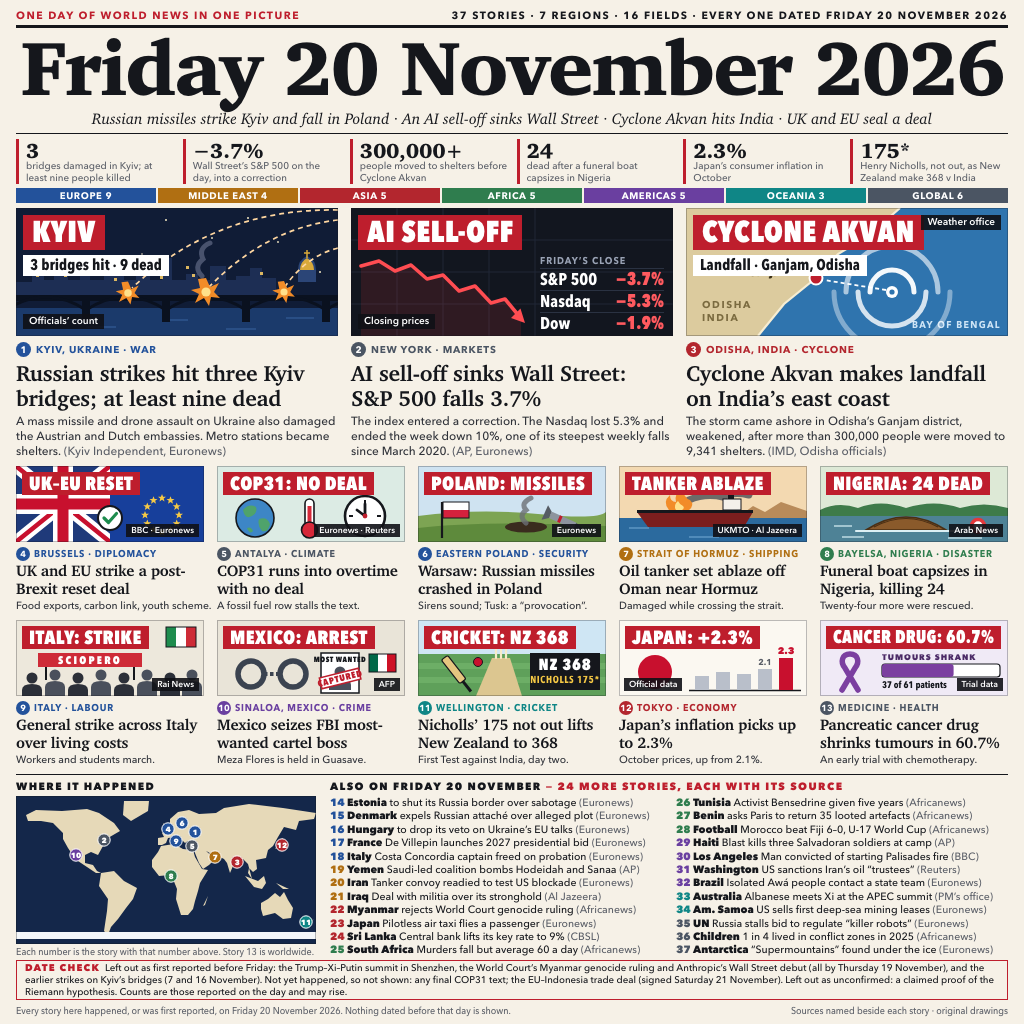
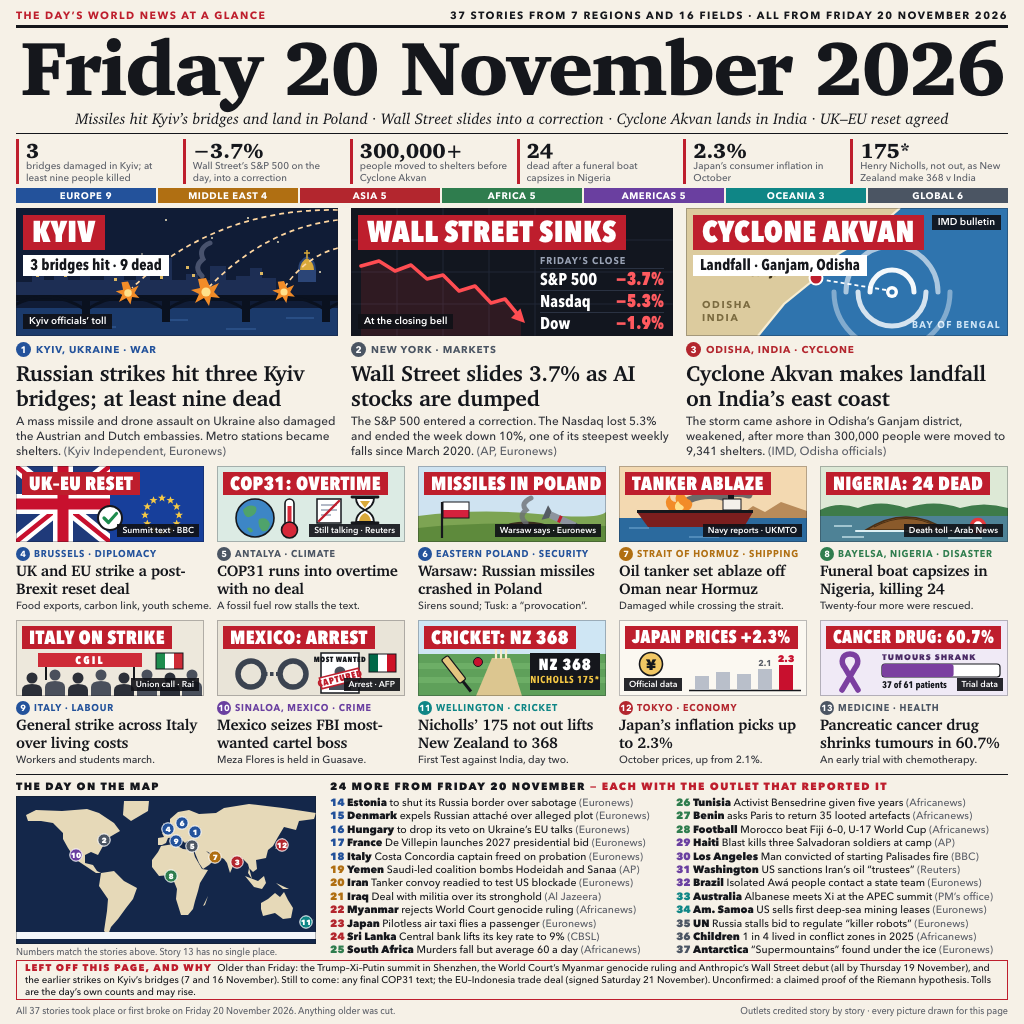
Reword every label in the page's own terms, redraw the COP31 and Japan pictures, tag each source with its kind of evidence

diff --git a/poster.html b/poster.html
@@ -94,10 +94,10 @@ h1{top:27px;height:80px;font:900 77px/80px var(--serif);letter-spacing:-2.2px;te
 <body>
 <div class="page">
 
-  <div class="abs kick"><span class="l">One day of world news in one picture</span><span>37 stories · 7 regions · 16 fields · every one dated Friday 20 November 2026</span></div>
+  <div class="abs kick"><span class="l">The day’s world news at a glance</span><span>37 stories from 7 regions and 16 fields · all from Friday 20 November 2026</span></div>
   <div class="abs bar" style="top:25px;height:3px"></div>
   <h1 class="abs">Friday 20 November 2026</h1>
-  <div class="abs deck">Russian missiles strike Kyiv and fall in Poland · An AI sell-off sinks Wall Street · Cyclone Akvan hits India · UK and EU seal a deal</div>
+  <div class="abs deck">Missiles hit Kyiv’s bridges and land in Poland · Wall Street slides into a correction · Cyclone Akvan lands in India · UK–EU reset agreed</div>
   <div class="abs bar" style="top:133px;height:1px"></div>
 
   <div class="abs nums">
@@ -136,7 +136,7 @@ h1{top:27px;height:80px;font:900 77px/80px var(--serif);letter-spacing:-2.2px;te
       </svg>
       <div class="chip">Kyiv</div>
       <div class="sub">3 bridges hit · 9 dead</div>
-      <div class="src">Officials’ count</div>
+      <div class="src">Kyiv officials’ toll</div>
     </div>
     <div class="tag c-eu"><b class="n eu">1</b>Kyiv, Ukraine · War</div>
     <h2>Russian strikes hit three Kyiv bridges; at least nine dead</h2>
@@ -153,13 +153,13 @@ h1{top:27px;height:80px;font:900 77px/80px var(--serif);letter-spacing:-2.2px;te
         <polyline points="10,58 28,53 44,63 60,57 76,71 92,67 108,83 124,78 140,95 154,91 168,108" fill="none" stroke="#FF4D52" stroke-width="3.6" stroke-linejoin="round" stroke-linecap="round"/>
         <polygon points="174,115 160,110 169.500,100.500" fill="#FF4D52"/>
       </svg>
-      <div class="chip">AI sell-off</div>
+      <div class="chip">Wall Street sinks</div>
       <div class="mk"><em>Friday’s close</em><div>S&amp;P 500<b>−3.7%</b></div><div>Nasdaq<b>−5.3%</b></div><div>Dow<b>−1.9%</b></div></div>
-      <div class="src">Closing prices</div>
+      <div class="src">At the closing bell</div>
     </div>
     <div class="tag c-gl"><b class="n gl">2</b>New York · Markets</div>
-    <h2>AI sell-off sinks Wall Street: S&amp;P 500 falls 3.7%</h2>
-    <p>The index entered a correction. The Nasdaq lost 5.3% and ended the week down 10%, one of its steepest weekly falls since March 2020. <i>(AP, Euronews)</i></p>
+    <h2>Wall Street slides 3.7% as AI stocks are dumped</h2>
+    <p>The S&amp;P 500 entered a correction. The Nasdaq lost 5.3% and ended the week down 10%, one of its steepest weekly falls since March 2020. <i>(AP, Euronews)</i></p>
   </div>
 
   <!-- 3 · Cyclone Akvan -->
@@ -185,7 +185,7 @@ h1{top:27px;height:80px;font:900 77px/80px var(--serif);letter-spacing:-2.2px;te
       </svg>
       <div class="chip">Cyclone Akvan</div>
       <div class="sub">Landfall · Ganjam, Odisha</div>
-      <div class="src" style="left:auto;right:7px;bottom:auto;top:7px">Weather office</div>
+      <div class="src" style="left:auto;right:7px;bottom:auto;top:7px">IMD bulletin</div>
     </div>
     <div class="tag c-as"><b class="n as">3</b>Odisha, India · Cyclone</div>
     <h2>Cyclone Akvan makes landfall on India’s east coast</h2>
@@ -205,7 +205,7 @@ h1{top:27px;height:80px;font:900 77px/80px var(--serif);letter-spacing:-2.2px;te
         <path d="M88 52l4.500 4.500l8-9" fill="none" stroke="#1E8C4E" stroke-width="3.2" stroke-linecap="round" stroke-linejoin="round"/>
       </svg>
       <div class="chip">UK–EU reset</div>
-      <div class="src">BBC · Euronews</div>
+      <div class="src">Summit text · BBC</div>
     </div>
     <div class="tag c-eu"><b class="n eu">4</b>Brussels · Diplomacy</div>
     <h2>UK and EU strike a post-Brexit reset deal</h2>
@@ -219,16 +219,19 @@ h1{top:27px;height:80px;font:900 77px/80px var(--serif);letter-spacing:-2.2px;te
         <circle cx="38" cy="52" r="19" fill="#3D86C6"/>
         <path d="M26 44q6-7 13-3q2 6-4 9q-7 4-9-6zM42 53q8-3 11 5q-2 9-8 7q-5-6-3-12zM30 62q4-2 6 3q-3 4-6-3z" fill="#4FA36B"/>
         <circle cx="38" cy="52" r="19" fill="none" stroke="#15171C" stroke-width="1.6"/>
-        <rect x="88" y="33" width="9" height="28" rx="4.500" fill="#fff" stroke="#15171C" stroke-width="1.6"/>
-        <rect x="90.500" y="40" width="4" height="22" fill="#D62839"/>
-        <circle cx="92.500" cy="64" r="8" fill="#D62839" stroke="#15171C" stroke-width="1.6"/>
-        <circle cx="148" cy="50" r="20" fill="#fff" stroke="#15171C" stroke-width="2.6"/>
-        <path d="M148 34v4M148 62v4M132 50h4M160 50h4" stroke="#15171C" stroke-width="2"/>
-        <path d="M148 50V38M148 50L140 44" stroke="#15171C" stroke-width="2.8" stroke-linecap="round"/>
-        <circle cx="148" cy="50" r="2.4" fill="#BE1E2D"/>
+        <rect x="68" y="33" width="9" height="28" rx="4.500" fill="#fff" stroke="#15171C" stroke-width="1.6"/>
+        <rect x="70.500" y="40" width="4" height="22" fill="#D62839"/>
+        <circle cx="72.500" cy="64" r="8" fill="#D62839" stroke="#15171C" stroke-width="1.6"/>
+        <path d="M135 31h26M135 57h26" stroke="#15171C" stroke-width="2.8" stroke-linecap="round"/>
+        <path d="M139 32q0 8 9 12q-9 4-9 12h18q0-8-9-12q9-4 9-12z" fill="#fff" stroke="#15171C" stroke-width="1.8"/>
+        <path d="M143 35h10l-5 7z" fill="#D9A93A"/>
+        <path d="M142 55q1-6 6-8q5 2 6 8z" fill="#D9A93A"/>
+        <rect x="100" y="33" width="24" height="24" fill="#fff" stroke="#15171C" stroke-width="1.5"/>
+        <path d="M104 39h16M104 44h16M104 49h10" stroke="#9AA3B5" stroke-width="1.6"/>
+        <path d="M102 55l20-20" stroke="#BE1E2D" stroke-width="2.4" stroke-linecap="round"/>
       </svg>
-      <div class="chip">COP31: no deal</div>
-      <div class="src">Euronews · Reuters</div>
+      <div class="chip">COP31: overtime</div>
+      <div class="src">Still talking · Reuters</div>
     </div>
     <div class="tag c-gl"><b class="n gl">5</b>Antalya · Climate</div>
     <h2>COP31 runs into overtime with no deal</h2>
@@ -247,8 +250,8 @@ h1{top:27px;height:80px;font:900 77px/80px var(--serif);letter-spacing:-2.2px;te
         <path d="M24 36V72" stroke="#15171C" stroke-width="2.2"/>
         <rect x="25" y="36" width="26" height="8" fill="#fff"/><rect x="25" y="44" width="26" height="8" fill="#D4213D"/><rect x="25" y="36" width="26" height="16" fill="none" stroke="#15171C" stroke-width="1"/>
       </svg>
-      <div class="chip">Poland: missiles</div>
-      <div class="src">Euronews</div>
+      <div class="chip">Missiles in Poland</div>
+      <div class="src">Warsaw says · Euronews</div>
     </div>
     <div class="tag c-eu"><b class="n eu">6</b>Eastern Poland · Security</div>
     <h2>Warsaw: Russian missiles crashed in Poland</h2>
@@ -271,7 +274,7 @@ h1{top:27px;height:80px;font:900 77px/80px var(--serif);letter-spacing:-2.2px;te
         <path d="M57 44q-3-5 2-9q2 4 5 5q2 2-1 4z" fill="#FFE08A"/>
       </svg>
       <div class="chip">Tanker ablaze</div>
-      <div class="src">UKMTO · Al Jazeera</div>
+      <div class="src">Navy reports · UKMTO</div>
     </div>
     <div class="tag c-me"><b class="n me">7</b>Strait of Hormuz · Shipping</div>
     <h2>Oil tanker set ablaze off Oman near Hormuz</h2>
@@ -305,15 +308,15 @@ h1{top:27px;height:80px;font:900 77px/80px var(--serif);letter-spacing:-2.2px;te
     <div class="pic">
       <svg viewBox="0 0 188 76">
         <rect width="188" height="76" fill="#EDE8DC"/>
-        <rect x="150" y="7" width="10" height="20" fill="#1E8C4E"/><rect x="160" y="7" width="10" height="20" fill="#fff"/><rect x="170" y="7" width="10" height="20" fill="#CE2B37"/><rect x="150" y="7" width="30" height="20" fill="none" stroke="#15171C" stroke-width="1"/>
+        <rect x="140" y="33" width="9" height="16" fill="#1E8C4E"/><rect x="149" y="33" width="9" height="16" fill="#fff"/><rect x="158" y="33" width="9" height="16" fill="#CE2B37"/><rect x="140" y="33" width="27" height="16" fill="none" stroke="#15171C" stroke-width="1"/>
         <path d="M30 60V40M118 60V40" stroke="#15171C" stroke-width="2"/>
         <rect x="22" y="33" width="104" height="14" fill="#CE2B37"/>
-        <text x="74" y="43.500" text-anchor="middle" font-family="Avenir Next Condensed,Arial Narrow,Arial" font-weight="800" font-size="11" letter-spacing="2.2" fill="#fff">SCIOPERO</text>
+        <text x="74" y="43.500" text-anchor="middle" font-family="Avenir Next Condensed,Arial Narrow,Arial" font-weight="800" font-size="11" letter-spacing="2.2" fill="#fff">CGIL</text>
         <g fill="#2B2F38"><circle cx="16" cy="58" r="5.500"/><path d="M6 76v-6q0-6 10-6t10 6v6z"/><circle cx="62" cy="58" r="5.500"/><path d="M52 76v-6q0-6 10-6t10 6v6z"/><circle cx="108" cy="58" r="5.500"/><path d="M98 76v-6q0-6 10-6t10 6v6z"/><circle cx="154" cy="58" r="5.500"/><path d="M144 76v-6q0-6 10-6t10 6v6z"/></g>
         <g fill="#4A505C"><circle cx="39" cy="55" r="5.500"/><path d="M29 76v-9q0-6 10-6t10 6v9z"/><circle cx="85" cy="55" r="5.500"/><path d="M75 76v-9q0-6 10-6t10 6v9z"/><circle cx="131" cy="55" r="5.500"/><path d="M121 76v-9q0-6 10-6t10 6v9z"/><circle cx="176" cy="55" r="5.500"/><path d="M166 76v-9q0-6 10-6t10 6v9z"/></g>
       </svg>
-      <div class="chip">Italy: strike</div>
-      <div class="src">Rai News</div>
+      <div class="chip">Italy on strike</div>
+      <div class="src">Union call · Rai</div>
     </div>
     <div class="tag c-eu"><b class="n eu">9</b>Italy · Labour</div>
     <h2>General strike across Italy over living costs</h2>
@@ -334,7 +337,7 @@ h1{top:27px;height:80px;font:900 77px/80px var(--serif);letter-spacing:-2.2px;te
         <g transform="rotate(-14 123 58)"><rect x="103" y="53" width="40" height="11" fill="#fff" stroke="#BE1E2D" stroke-width="1.6"/><text x="123" y="61.500" text-anchor="middle" font-family="Avenir Next Condensed,Arial Narrow,Arial" font-weight="900" font-size="9" letter-spacing=".8" fill="#BE1E2D">CAPTURED</text></g>
       </svg>
       <div class="chip">Mexico: arrest</div>
-      <div class="src">AFP</div>
+      <div class="src">Arrest · AFP</div>
     </div>
     <div class="tag c-am"><b class="n am">10</b>Sinaloa, Mexico · Crime</div>
     <h2>Mexico seizes FBI most-wanted cartel boss</h2>
@@ -354,7 +357,7 @@ h1{top:27px;height:80px;font:900 77px/80px var(--serif);letter-spacing:-2.2px;te
         <circle cx="158" cy="60" r="6.500" fill="#fff" stroke="#E5383B" stroke-width="3.600"/>
       </svg>
       <div class="chip">Nigeria: 24 dead</div>
-      <div class="src">Arab News</div>
+      <div class="src">Death toll · Arab News</div>
     </div>
     <div class="tag c-af"><b class="n af">8</b>Bayelsa, Nigeria · Disaster</div>
     <h2>Funeral boat capsizes in Nigeria, killing 24</h2>
@@ -365,14 +368,15 @@ h1{top:27px;height:80px;font:900 77px/80px var(--serif);letter-spacing:-2.2px;te
     <div class="pic">
       <svg viewBox="0 0 188 76">
         <rect width="188" height="76" fill="#FBF8F1"/>
-        <circle cx="36" cy="52" r="17" fill="#C8102E"/>
+        <circle cx="32" cy="44" r="11.500" fill="#F2C864" stroke="#15171C" stroke-width="1.6"/>
+        <text x="32" y="49.500" text-anchor="middle" font-family="Avenir Next,Helvetica Neue,Arial" font-weight="800" font-size="15" fill="#15171C">¥</text>
         <path d="M70 70.500h112" stroke="#15171C" stroke-width="1.4"/>
         <g fill="#B9BFCA"><rect x="76" y="56" width="14" height="14"/><rect x="97" y="52" width="14" height="18"/><rect x="118" y="54" width="14" height="16"/><rect x="139" y="49" width="14" height="21"/></g>
-        <rect x="160" y="38" width="14" height="32" fill="#C8102E"/>
-        <text x="146" y="45" text-anchor="middle" font-family="Avenir Next,Helvetica Neue,Arial" font-weight="700" font-size="8.500" fill="#5A5E67">2.1</text>
-        <text x="167" y="34" text-anchor="middle" font-family="Avenir Next,Helvetica Neue,Arial" font-weight="800" font-size="9.500" fill="#C8102E">2.3</text>
+        <rect x="160" y="45" width="14" height="25" fill="#C8102E"/>
+        <text x="146" y="46" text-anchor="middle" font-family="Avenir Next,Helvetica Neue,Arial" font-weight="700" font-size="8.500" fill="#5A5E67">2.1</text>
+        <text x="167" y="41.500" text-anchor="middle" font-family="Avenir Next,Helvetica Neue,Arial" font-weight="800" font-size="9.500" fill="#C8102E">2.3</text>
       </svg>
-      <div class="chip">Japan: +2.3%</div>
+      <div class="chip sm">Japan prices +2.3%</div>
       <div class="src" style="right:auto;left:5px">Official data</div>
     </div>
     <div class="tag c-as"><b class="n as">12</b>Tokyo · Economy</div>
@@ -403,7 +407,7 @@ h1{top:27px;height:80px;font:900 77px/80px var(--serif);letter-spacing:-2.2px;te
 
   <!-- map -->
   <div class="map">
-    <div class="hd">Where it happened</div>
+    <div class="hd">The day on the map</div>
     <div class="m">
       <svg viewBox="0 0 300 138">
         <rect width="300" height="138" fill="#14274A"/>
@@ -434,12 +438,12 @@ h1{top:27px;height:80px;font:900 77px/80px var(--serif);letter-spacing:-2.2px;te
         </g>
       </svg>
     </div>
-    <small>Each number is the story with that number above. Story 13 is worldwide.</small>
+    <small>Numbers match the stories above. Story 13 has no single place.</small>
   </div>
 
   <!-- also -->
   <div class="also">
-    <div class="hd">Also on Friday 20 November <span>— 24 more stories, each with its source</span></div>
+    <div class="hd">24 more from Friday 20 November <span>— each with the outlet that reported it</span></div>
     <ol>
       <li><u class="c-eu">14</u><b>Estonia</b> to shut its Russia border over sabotage <i>(Euronews)</i></li>
       <li><u class="c-eu">15</u><b>Denmark</b> expels Russian attaché over alleged plot <i>(Euronews)</i></li>
@@ -468,9 +472,9 @@ h1{top:27px;height:80px;font:900 77px/80px var(--serif);letter-spacing:-2.2px;te
     </ol>
   </div>
 
-  <div class="abs check"><b>DATE CHECK</b>Left out as first reported before Friday: the Trump–Xi–Putin summit in Shenzhen, the World Court’s Myanmar genocide ruling and Anthropic’s Wall Street debut (all by Thursday 19 November), and the earlier strikes on Kyiv’s bridges (7 and 16 November). Not yet happened, so not shown: any final COP31 text; the EU–Indonesia trade deal (signed Saturday 21 November). Left out as unconfirmed: a claimed proof of the Riemann hypothesis. Counts are those reported on the day and may rise.</div>
+  <div class="abs check"><b>LEFT OFF THIS PAGE, AND WHY</b>Older than Friday: the Trump–Xi–Putin summit in Shenzhen, the World Court’s Myanmar genocide ruling and Anthropic’s Wall Street debut (all by Thursday 19 November), and the earlier strikes on Kyiv’s bridges (7 and 16 November). Still to come: any final COP31 text; the EU–Indonesia trade deal (signed Saturday 21 November). Unconfirmed: a claimed proof of the Riemann hypothesis. Tolls are the day’s own counts and may rise.</div>
 
-  <div class="abs foot"><span>Every story here happened, or was first reported, on Friday 20 November 2026. Nothing dated before that day is shown.</span><span>Sources named beside each story · original drawings</span></div>
+  <div class="abs foot"><span>All 37 stories took place or first broke on Friday 20 November 2026. Anything older was cut.</span><span>Outlets credited story by story · every picture drawn for this page</span></div>
 </div>
 </body>
 </html>
